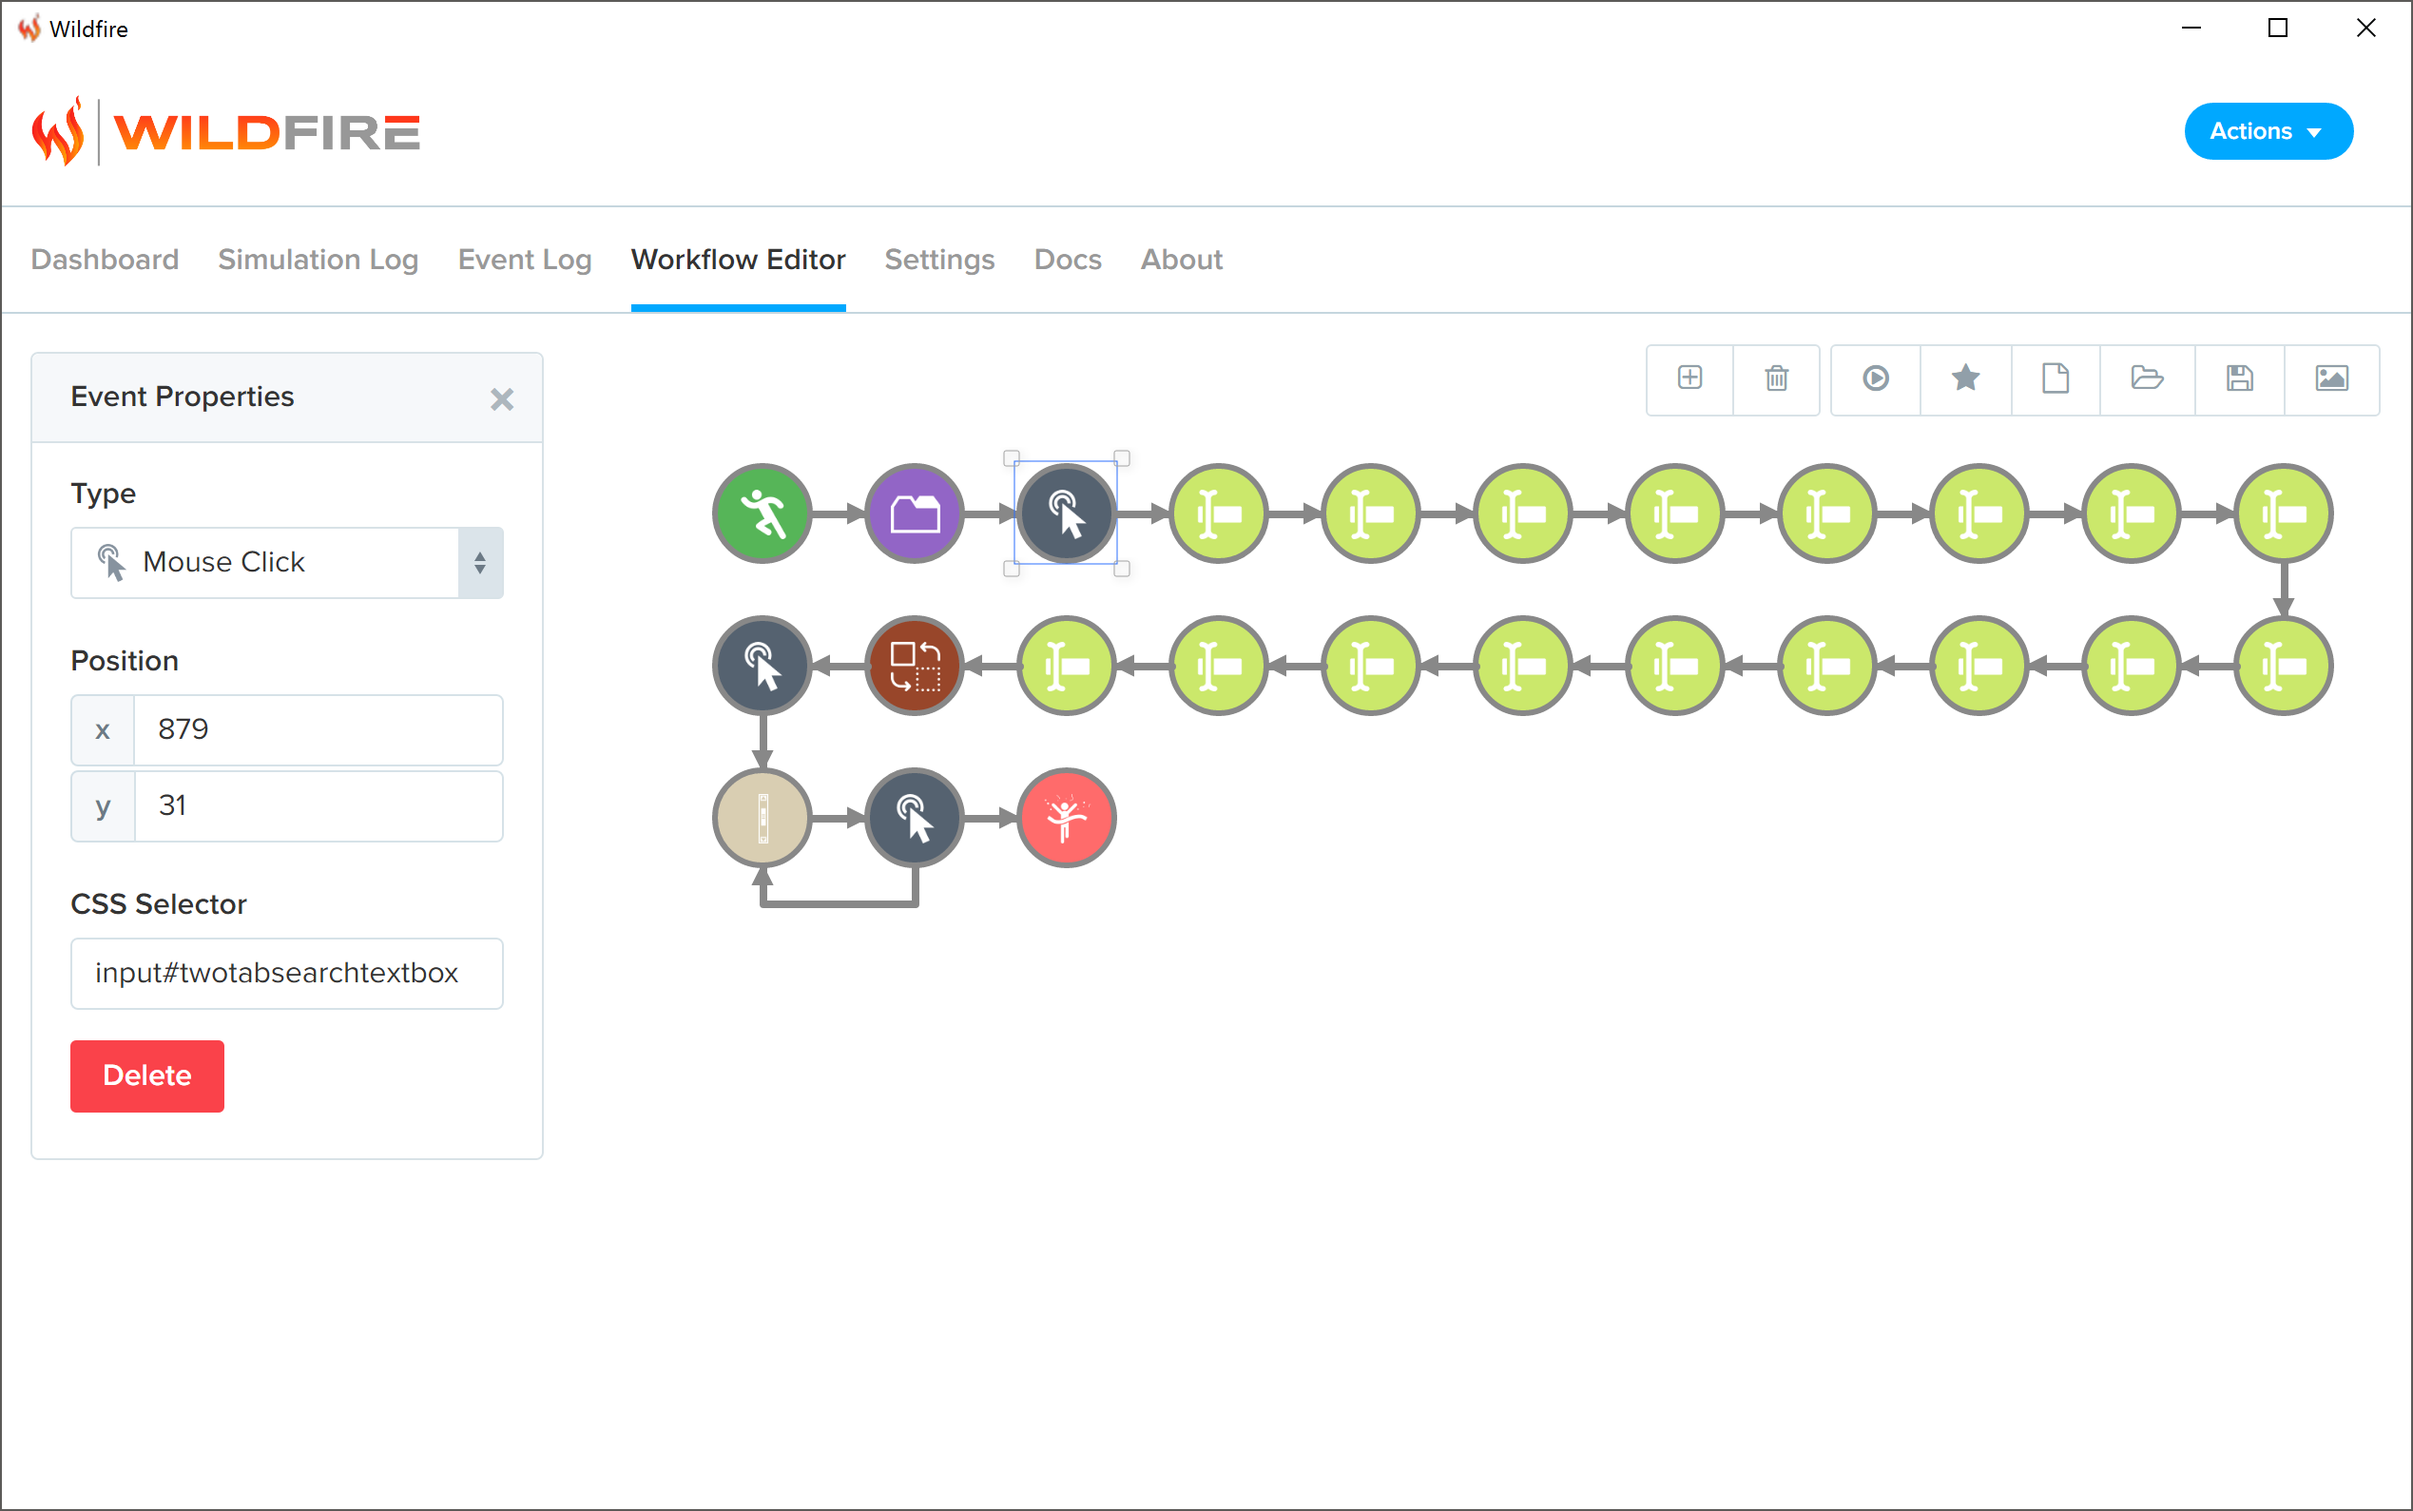
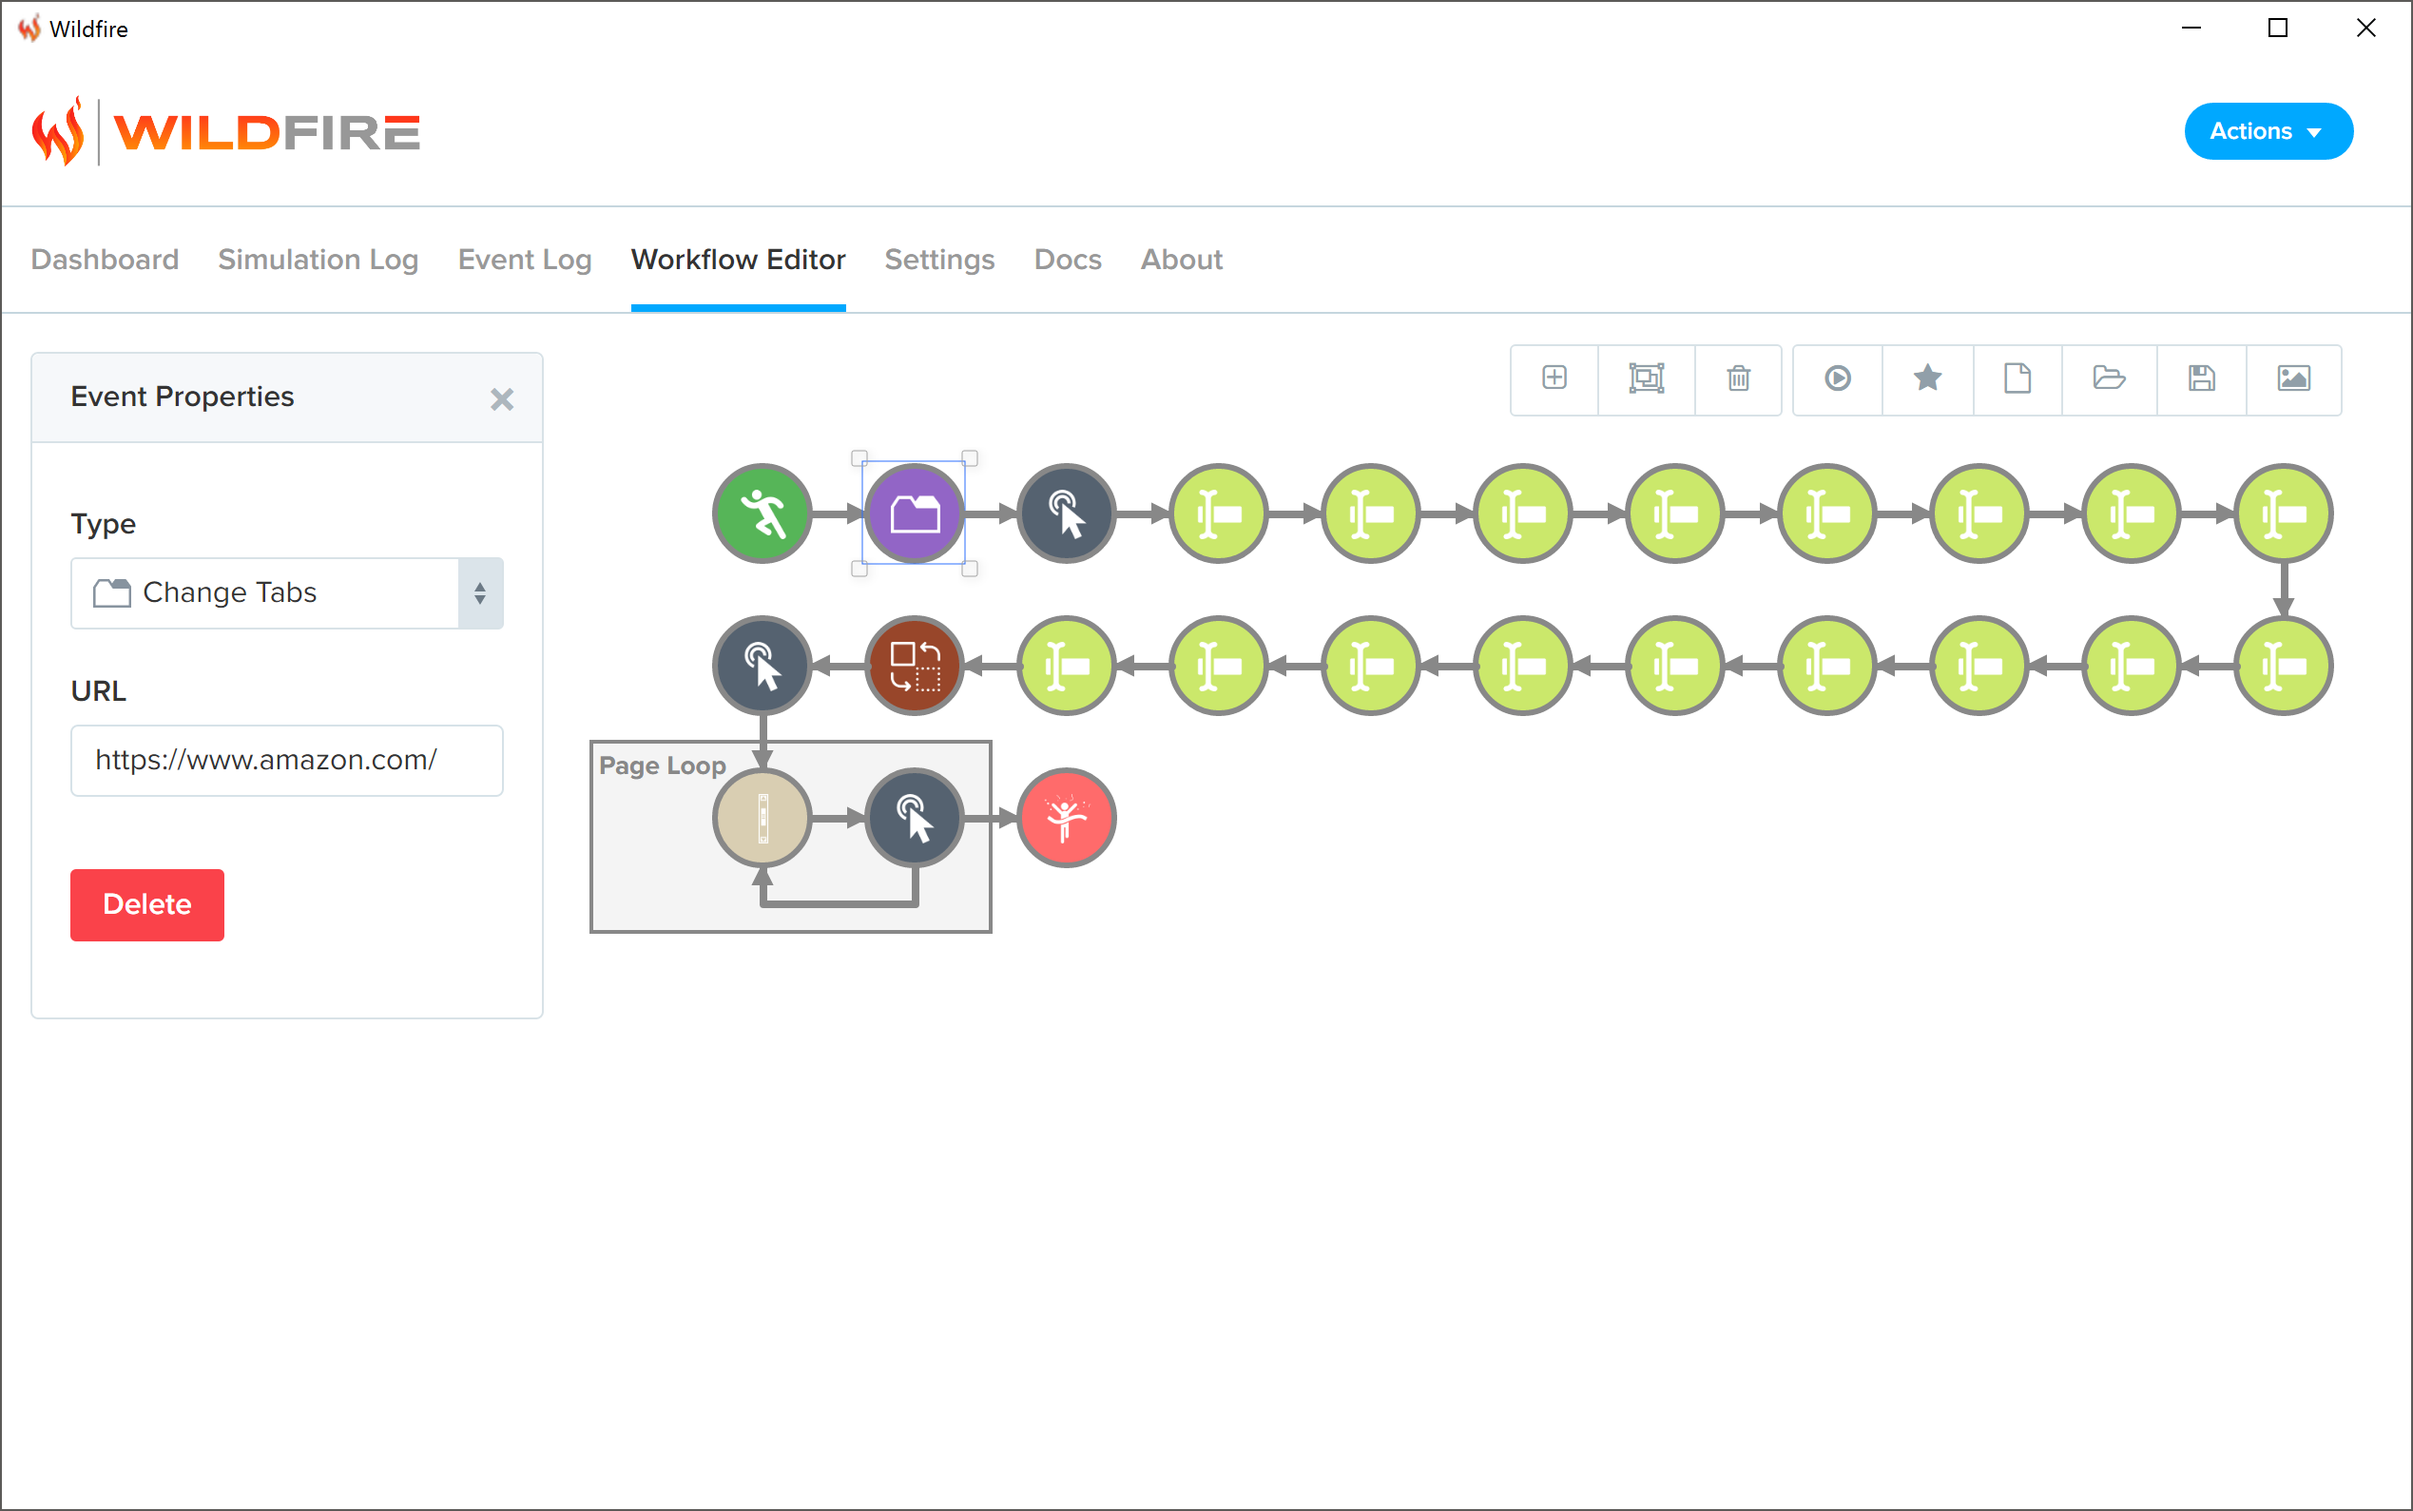
docs. 1.1.5 final release

diff --git a/docs/workflow_editor.html b/docs/workflow_editor.html
@@ -176,7 +176,7 @@
                 <h2>Workflow Editor</h2>
                 <!--<p class="lead color-blue-grey">XXXXX</p>-->
                 <div class="documentation-header-by">
-                    Last Updated: January 15, 2017
+                    Last Updated: February 1, 2017
                 </div>
             </header>
             <div class="text-block text-block-typical">
@@ -187,10 +187,11 @@
                 <p style="padding-left: 4%;">
                     <strong>1.</strong>&nbsp;&nbsp;An event within the workflow<br />
                     <strong>2.</strong>&nbsp;&nbsp;A link within the workflow<br />
-                    <strong>3.</strong>&nbsp;&nbsp;The type of event to be simulated<br />
-                    <strong>4.</strong>&nbsp;&nbsp;Various fields relating to the type of event<br />
-                    <strong>5.</strong>&nbsp;&nbsp;Button to remove event or link from the workflow<br />
-                    <strong>6.</strong>&nbsp;&nbsp;Actions for the workflow (see below)
+                    <strong>3.</strong>&nbsp;&nbsp;A section to group elements<br />
+                    <strong>4.</strong>&nbsp;&nbsp;The type of event to be simulated<br />
+                    <strong>5.</strong>&nbsp;&nbsp;Various fields relating to the type of event<br />
+                    <strong>6.</strong>&nbsp;&nbsp;Button to remove event or link from the workflow<br />
+                    <strong>7.</strong>&nbsp;&nbsp;Actions for the workflow (see below)
                 </p>
                 <p>
                     <img src="/docs/workflow_editor_1_x.png" style="padding-top: 8px; padding-bottom: 8px; width: 100%;" />
@@ -198,6 +199,7 @@
                 <h4>Workflow Actions</h4>
                 <p style="padding-left: 4%;">
                     <i class="fa fa-plus-square-o"></i>&nbsp;&nbsp;<strong>Add Node</strong>&nbsp;-&nbsp;Adds an End Simulation node to the center of the workflow<br />
+                    <i class="fa fa-object-group"></i>&nbsp;<strong>Add Section</strong>&nbsp;-&nbsp;Mark a section within the workflow to help you group related events<br />
                     <i class="fa fa-trash-o"></i>&nbsp;&nbsp;<strong>Delete Node/Link</strong>&nbsp;-&nbsp;Removes the selected node(s) / link(s) from the workflow<br />
                     <i class="fa fa-play-circle-o" style="margin-top: 16px;"></i>&nbsp;&nbsp;<strong>Execute Simulation</strong>&nbsp;-&nbsp;Begin a simulation of the workflow<br />
                     <i class="fa fa-star"></i>&nbsp;&nbsp;<strong>Favorite Workflow</strong>&nbsp;-&nbsp;Saves the current workflow to the favorites section (will prompt for a workflow name)<br />
